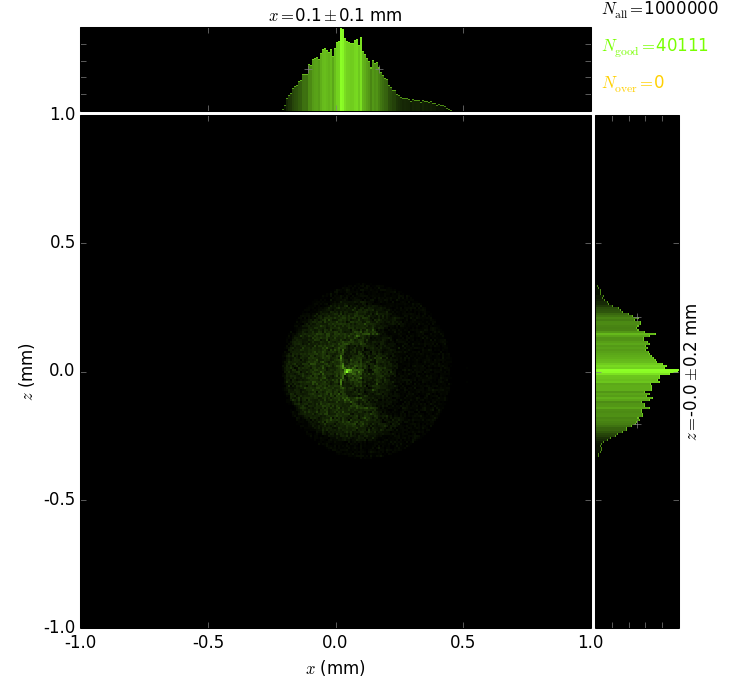
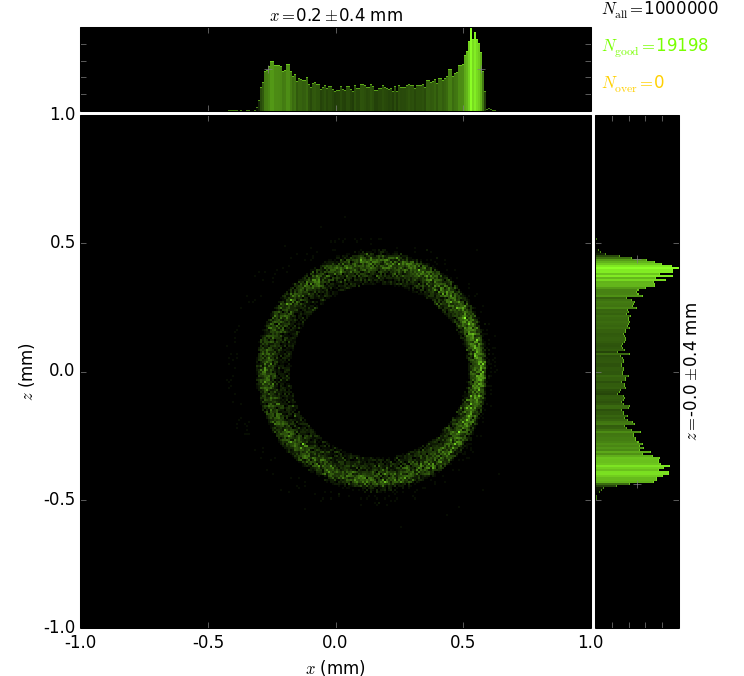
Straight capillary again

diff --git a/StraightCapillary.py b/StraightCapillary.py
@@ -43,7 +43,7 @@ class StraightCapillary(roe.OE):
         s0 = self.f - self.rSample * np.cos(self.entranceAlpha)
         self.a0 = -np.tan(self.entranceAlpha) / 2 / s0
         self.b0 = 0.5*self.rSample * np.sin(self.entranceAlpha) - self.a0 * s0**2
-        self.b0 = 0.1
+        self.b0 = 0.15
         self.s0 = s0
         self.ar = (self.r0out-self.r0in) / s0**2
         self.br = self.r0in
@@ -106,7 +106,7 @@ def build_beamline(nrays=1000):
     capillary = StraightCapillary(
         beamLine, 'StraightCapillary', [0,0,0], roll=roll,
         material=mGlass, limPhysY=[rSample*np.cos(alpha), f],
-        f=f, rSample=rSample, entranceAlpha=alpha, rIn=r0, rOut=r0*2)
+        f=f, rSample=rSample, entranceAlpha=alpha, rIn=r0, rOut=r0)
     beamLine.capillaries.append(capillary)         
     
     if beamLine.xzMax < capillary.b0:
